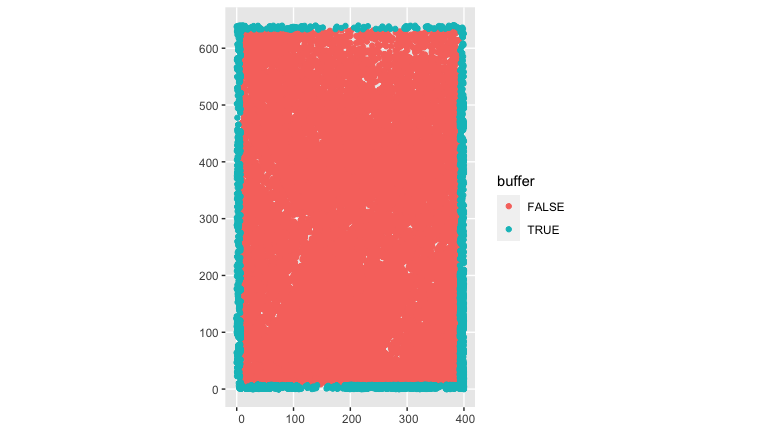
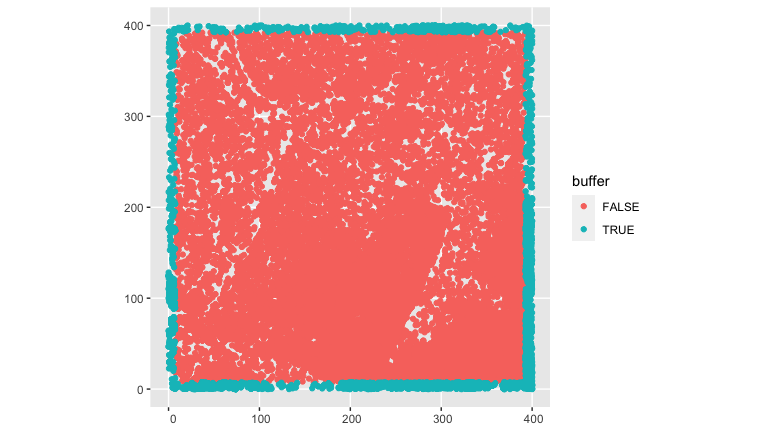
Readme knit with SCBI

diff --git a/README.md b/README.md
@@ -52,7 +52,7 @@ library(yardstick)
 library(viridis)
 library(lubridate)
 
-run_scbi <- FALSE
+run_scbi <- TRUE
 run_bw <- TRUE
 ```
 
@@ -81,6 +81,8 @@ bw_census_2008 <- bw_census_2008 %>%
 
 **SCBI**:
 
+For SCBI we will just look at a 16 ha plot to speed calculations.
+
 ``` r
 # SCBI
 scbi_2013 <- 
@@ -90,7 +92,8 @@ scbi_2013 <-
     treeID, stemID, sp, quadrat, gx, gy, dbh, 
     date = ExactDate, codes, status
   ) %>%
-  mutate(date = mdy(date))
+  mutate(date = mdy(date)) %>%
+  filter(gy <= 400)
 
 scbi_2018 <-
   "https://github.com/SCBI-ForestGEO/SCBI-ForestGEO-Data/raw/master/tree_main_census/data/census-csv-files/scbi.stem3.csv" %>% 
@@ -100,7 +103,8 @@ scbi_2018 <-
     date = ExactDate, codes, status
   ) %>% 
   mutate(dbh = as.numeric(dbh),
-         date = mdy(date)) 
+         date = mdy(date)) %>%
+  filter(gy <= 400)
 ```
 
 ### Compute growth
@@ -150,7 +154,8 @@ scbi_growth_df <-
   # Merge both censuses and compute growth:
   compute_growth(census_df1, census_df2, id) %>%
   # they are mesuaring in mm while we are measuring in cm!!!
-  mutate(growth = growth/10)
+  mutate(growth = growth/10,
+             sp = as.factor(sp))
 ```
 
 **Comparison**:
@@ -166,6 +171,8 @@ ggplot(growth_df, aes(x = growth, y = ..density.., fill = site)) +
   labs(x = "Average annual growth in dbh (cm per yr)") +
   coord_cartesian(xlim = c(-0.5, 1))
 ```
+
+<img src="man/figures/README-unnamed-chunk-8-1.png" width="100%" />
 
 ### Add spatial information
 
@@ -263,7 +270,9 @@ ggplot() +
 ``` r
 # SCBI
 # Study region boundary polygon
-scbi_study_region <- tibble(x = c(0,400,400,0,0), y = c(0,0,640,640,0)) %>% 
+scbi_study_region <- 
+ #tibble(x = c(0,400,400,0,0), y = c(0,0,640,640,0)) %>% 
+  tibble(x = c(0,400,400,0,0), y = c(0,0,400,400,0)) %>% 
   sf_polygon()
 
 # Add buffer variable to data frame
@@ -273,6 +282,8 @@ scbi_growth_df <- scbi_growth_df %>%
 ggplot() +
   geom_sf(data = scbi_growth_df, aes(col = buffer))
 ```
+
+<img src="man/figures/README-unnamed-chunk-12-1.png" width="100%" />
 
 #### Defining spatial cross-validation folds
 
@@ -334,8 +345,13 @@ bw_cv_grid_sf <- bw_cv_grid$blocks %>%
 ``` r
 # SCBI
 scbi_cv_grid <- spatialBlock(
-  speciesData = scbi_growth_df, theRange = 100, k = 28, yOffset = 0.9999, verbose = FALSE
+  speciesData = scbi_growth_df, theRange = 100, k = 20, yOffset = 0.9999, verbose = FALSE
 )
+```
+
+<img src="man/figures/README-unnamed-chunk-14-1.png" width="100%" />
+
+``` r
 
 # Add foldID to data
 scbi_growth_df <- scbi_growth_df %>% 
@@ -346,6 +362,11 @@ scbi_growth_df <- scbi_growth_df %>%
 # Visualize grid
 scbi_cv_grid$plots +
   geom_sf(data = scbi_growth_df, aes(col=factor(foldID)), size = 0.1)
+```
+
+<img src="man/figures/README-unnamed-chunk-14-2.png" width="100%" />
+
+``` r
 
 scbi_cv_grid_sf <- scbi_cv_grid$blocks %>%
   st_as_sf()
@@ -401,11 +422,24 @@ tic()
 focal_vs_comp_scbi <- scbi_growth_df %>% 
   create_focal_vs_comp(max_dist, cv_grid_sf = scbi_cv_grid_sf, id = "stemID")
 toc()
+#> 172.237 sec elapsed
 ```
 
 ``` r
 # SCBI
 glimpse(focal_vs_comp_scbi)
+#> Rows: 2,160,651
+#> Columns: 10
+#> $ focal_ID        <dbl> 2, 2, 2, 2, 2, 2, 2, 2, 2, 2, 2, 2, 2, 2, 2, 2, 2, 2,…
+#> $ focal_sp        <fct> libe, libe, libe, libe, libe, libe, libe, libe, libe,…
+#> $ dbh             <dbl> 21.7, 21.7, 21.7, 21.7, 21.7, 21.7, 21.7, 21.7, 21.7,…
+#> $ foldID          <int> 4, 4, 4, 4, 4, 4, 4, 4, 4, 4, 4, 4, 4, 4, 4, 4, 4, 4,…
+#> $ geometry        <POINT> POINT (17.3 58.9), POINT (17.3 58.9), POINT (17.3 5…
+#> $ growth          <dbl> -0.01293247, -0.01293247, -0.01293247, -0.01293247, -…
+#> $ comp_ID         <dbl> 31, 1137, 1139, 1140, 1141, 1142, 1143, 1145, 1150, 1…
+#> $ dist            <dbl> 6.5192024, 2.5495098, 4.4911023, 4.6270941, 0.6708204…
+#> $ comp_sp         <fct> saca, litu, acru, frni, ilve, ilve, ilve, ilve, libe,…
+#> $ comp_basal_area <dbl> 0.042638481, 32.019289040, 15.406402575, 1.635394540,…
 ```
 
 ### Model fit and prediction
@@ -475,8 +509,9 @@ interactions.
 # SCBI
 tic()
 posterior_param_scbi <- focal_vs_comp_scbi %>% 
-  fit_bayesian_model(prior_param = NULL, run_shuffle = TRUE)
+  fit_bayesian_model(prior_param = NULL, run_shuffle = FALSE)
 toc()
+#> 708.812 sec elapsed
 ```
 
 ``` r
@@ -495,6 +530,11 @@ ggplot(scbi_growth_df, aes(x = growth, y = growth_hat)) +
     x = "Observed growth in dbh", y = "Predicted growth in dbh", 
     title = "Predicted vs Observed Growth"
   )
+```
+
+<img src="man/figures/README-unnamed-chunk-23-1.png" width="100%" />
+
+``` r
 
 reslab <- expression(paste('Residual (cm ',y^{-1},')'))
 scbi_growth_df %>% 
@@ -516,6 +556,8 @@ scbi_growth_df %>%
     labels = c('< -0.75', '-0.5', '0.25', '0', '0.25', '0.5', '> 0.75')) +
   labs(x = "Meter", y = "Meter")
 ```
+
+<img src="man/figures/README-unnamed-chunk-23-2.png" width="100%" />
 
 ### Run spatial cross-validation
 
@@ -634,3 +676,18 @@ posterior_plots[["lambda"]]
 ```
 
 <img src="man/figures/README-unnamed-chunk-30-1.png" width="100%" />
+
+\*\* SCBI
+
+``` r
+posterior_plots_scbi <- plot_posterior_parameters(
+  posterior_param = posterior_param_scbi,
+  sp_to_plot = c("libe", "caca", "astr", "litu", "havi", "cagl", "cato")
+)
+```
+
+``` r
+posterior_plots_scbi[["lambda"]]
+```
+
+<img src="man/figures/README-unnamed-chunk-32-1.png" width="100%" />
